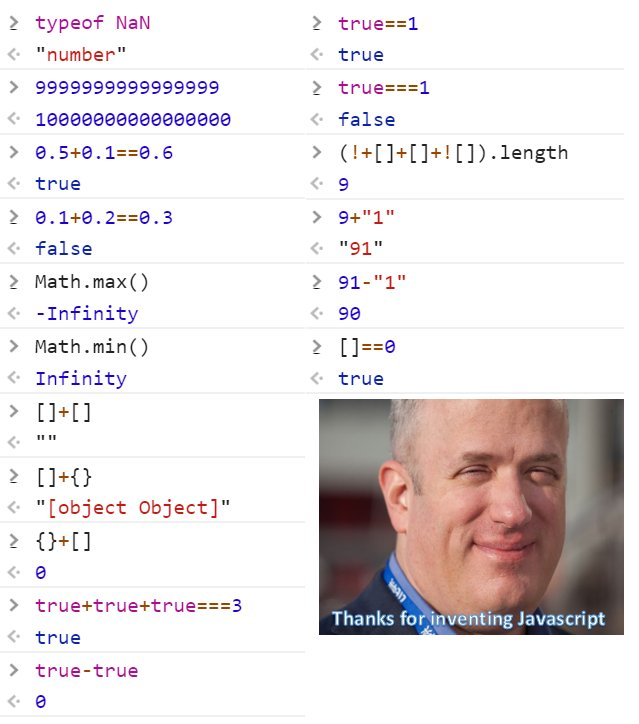
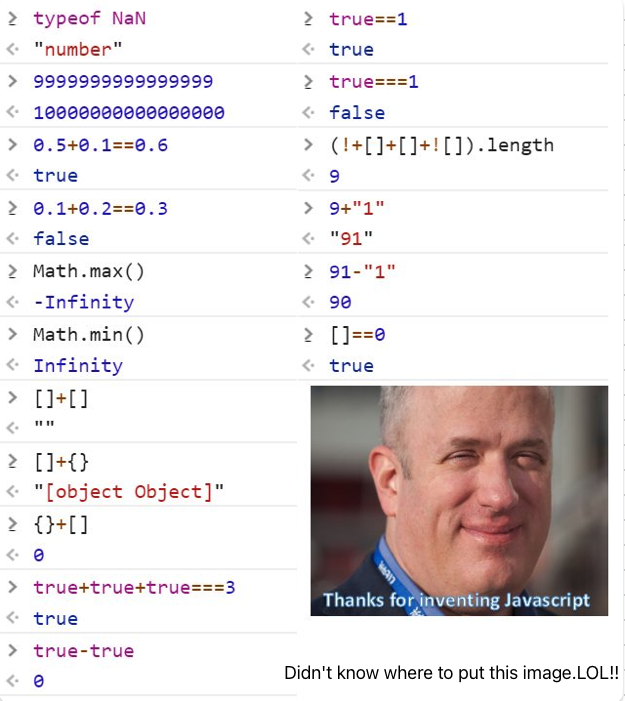
Added video

diff --git a/index.html b/index.html
@@ -23,12 +23,31 @@
   </body>
   <script>
     const now = new Date();
-    if(now.getHours() >= 6 && now.getHours() < 18){
-      document.body.style.backgroundImage = "url('images/day/bg.png')";
-    } else {
-      const selectImage=Math.floor(Math.random()*7)+1;
-      document.body.style.backgroundImage = "url('images/night/night("+selectImage+").jpg')";
-      console.log(selectImage);
-    }
+const hour = now.getHours();
+const minute = now.getMinutes();
+
+if (hour === 1 && minute === 37) {
+  document.body.innerHTML += `
+    <video autoplay muted loop id="bgVideo">
+      <source src="images/fog.mp4" type="video/mp4">
+    </video>
+  `;
+  const video = document.getElementById("bgVideo");
+  video.style.position = "fixed";
+  video.style.top = "0";
+  video.style.left = "0";
+  video.style.width = "100%";
+  video.style.height = "100%";
+  video.style.objectFit = "cover";
+  video.style.zIndex = "-1";
+} else if (hour >= 6 && hour < 18) {
+  document.body.style.backgroundImage = "url('images/day/bg.png')";
+} else {
+  const selectedImage = Math.floor(Math.random() * 3) + 1;
+  document.body.style.backgroundImage = `url('images/night/night(${selectedImage}).jpg')`;
+  document.body.style.backgroundSize = "cover";
+  document.body.style.backgroundRepeat = "no-repeat";
+}
+
   </script>
 </html>

diff --git a/n8n.html b/n8n.html
@@ -169,8 +169,8 @@ button:hover {
     </ol>
     <p>Note: Make sure the URL is enclosed in angle brackets exactly as shown to ensure correct processing.</p>
   </div>
-<img src="images/jsFunny.png" alt="n8n Workflow Diagram" style="max-width:100%; height:auto; margin-top:20px; border-radius:15px; box-shadow: 0 4px 15px rgba(0,0,0,0.2);">
-  <footer>
+<img src="images/JSfunny.png" alt="n8n Workflow Diagram" style="max-width:100%; height:auto; margin-top:20px; border-radius:15px; box-shadow: 0 4px 15px rgba(0,0,0,0.2);">  
+<footer>
     <p>Created by Joel Michael George</p>
   </footer>
 </body>
